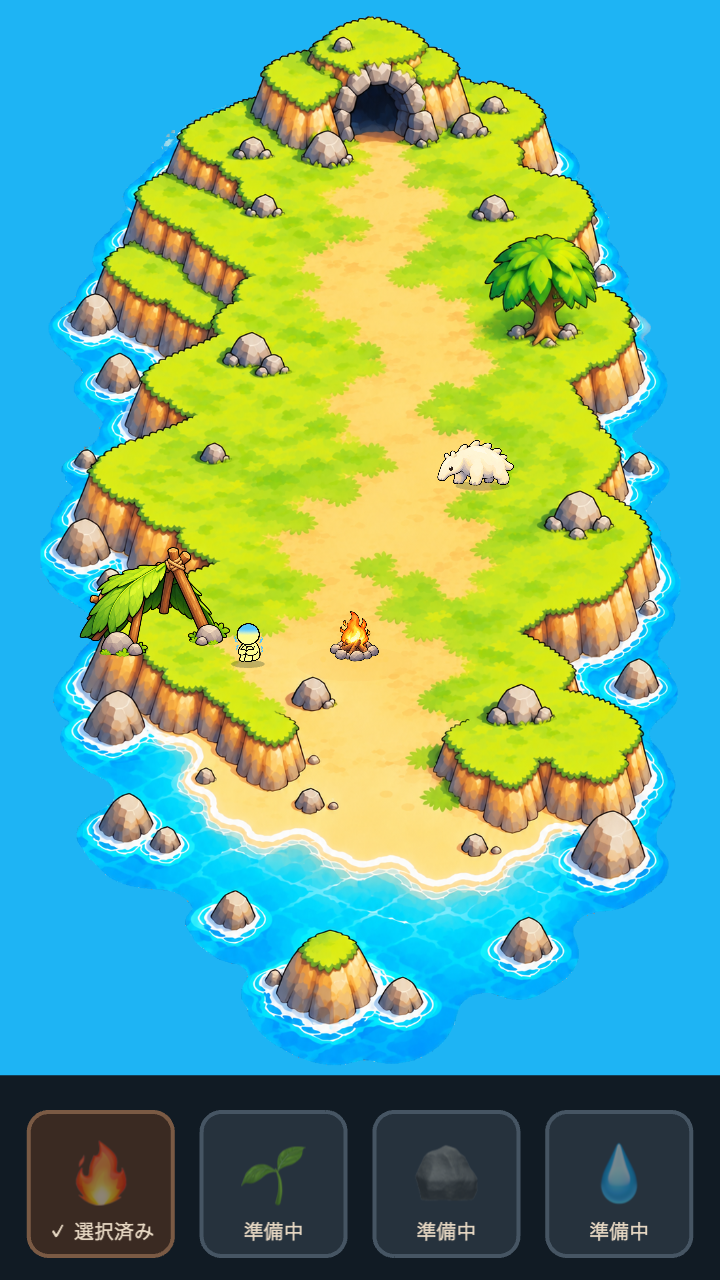
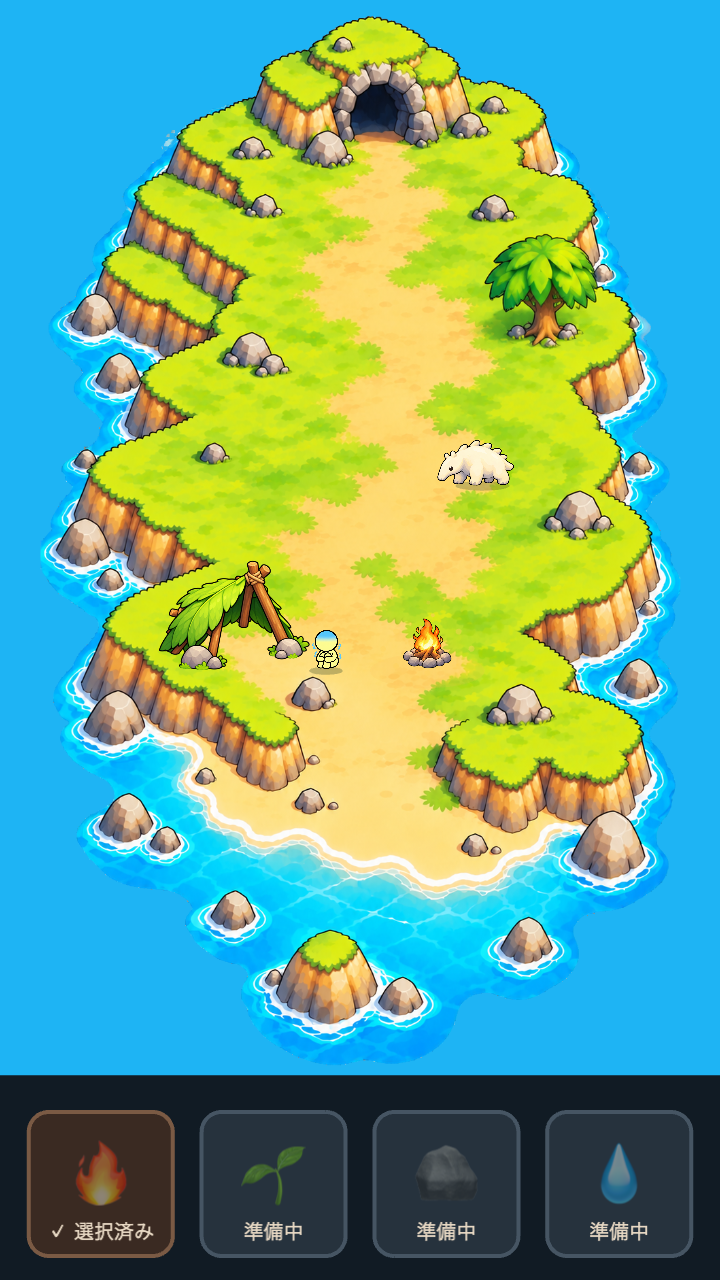
fix: keep living group on island

Changed region(s): [[0.0917, 0.4062, 0.5194, 0.5312], [0.55, 0.4688, 0.6417, 0.5312]]

diff --git a/src/presentation/worldAssets.test.ts b/src/presentation/worldAssets.test.ts
@@ -94,7 +94,7 @@ describe('world asset metadata', () => {
       groundAnchor: { x: 212, y: 296 },
       baseScale: 0.37,
       placementSpace: 'island',
-      placement: { x: 165, y: 940 },
+      placement: { x: 282, y: 960 },
       flipX: true,
     });
     expect(WORLD_ASSETS.animal).toMatchObject({
@@ -105,7 +105,7 @@ describe('world asset metadata', () => {
     expect(WORLD_ASSETS.fire).toMatchObject({
       groundAnchor: { x: 128, y: 246 },
       baseScale: 0.22,
-      placement: { x: 462, y: 950 },
+      placement: { x: 569, y: 960 },
     });
   });
 
@@ -254,6 +254,73 @@ function shelterPixelsInside(box: Box): boolean {
   return false;
 }
 
+// --- Island support: what ground lies under each opaque shelter pixel. ---
+// Classified from the island PNG itself: grass (including its dark outline) and
+// sand are supported ground; water, the transparent exterior and cliff faces are not.
+function groundAt(png: PngImage, x: number, y: number): 'grass' | 'sand' | 'none' {
+  if (x < 0 || y < 0 || x >= png.width || y >= png.height) return 'none';
+  const i = (y * png.width + x) * 4;
+  const [r, g, b, a] = [png.pixels[i], png.pixels[i + 1], png.pixels[i + 2], png.pixels[i + 3]];
+  if (a < 128) return 'none';
+  if (g >= r - 5 && g > b + 25) return 'grass';
+  if (r > 215 && g > 175 && b < 175 && r - b > 55) return 'sand';
+  return 'none';
+}
+
+const SUPPORT_MARGIN = 3; // island px of supported ground required around each pixel
+
+interface ShelterSupport {
+  readonly unsupported: number;
+  // Island px x of the leftmost opaque pixel among the lowest rows (the left
+  // plant/rock cluster) and the ground under it.
+  readonly leftContactGround: 'grass' | 'sand' | 'none';
+}
+
+// Maps every opaque, mirrored shelter pixel onto the island PNG for a shelter
+// whose ground anchor sits at island pixel (gx, gy).
+function shelterSupport(gx: number, gy: number): ShelterSupport {
+  const shelter = load(WORLD_ASSETS.shelter).png;
+  const island = load(WORLD_ASSETS.island).png;
+  const asset = WORLD_ASSETS.shelter;
+  const k = asset.baseScale / WORLD_ASSETS.island.baseScale; // island px per shelter px
+  const origin = groundOrigin(asset);
+  let unsupported = 0;
+  let leftmost = { ix: Infinity, iy: 0 };
+  for (let py = 0; py < shelter.height; py += 1) {
+    for (let px = 0; px < shelter.width; px += 1) {
+      if (alphaAt(shelter, px, py) < 128) continue;
+      const mirrored = shelter.width - 1 - px;
+      const ix = Math.round(gx + (mirrored - origin.x * shelter.width) * k);
+      const iy = Math.round(gy + (py - origin.y * shelter.height) * k);
+      const supported = [
+        [0, 0],
+        [SUPPORT_MARGIN, 0],
+        [-SUPPORT_MARGIN, 0],
+        [0, SUPPORT_MARGIN],
+        [0, -SUPPORT_MARGIN],
+      ].every(([dx, dy]) => groundAt(island, ix + dx, iy + dy) !== 'none');
+      if (!supported) unsupported += 1;
+      if (py >= shelter.height - 40 && ix < leftmost.ix) leftmost = { ix, iy };
+    }
+  }
+  return { unsupported, leftContactGround: groundAt(island, leftmost.ix, leftmost.iy) };
+}
+
+// Opaque right edge of the mirrored shelter on the design canvas.
+const SHELTER_OPAQUE_RIGHT = (() => {
+  const shelter = load(WORLD_ASSETS.shelter).png;
+  const asset = WORLD_ASSETS.shelter;
+  const origin = groundOrigin(asset);
+  let rightmost = -Infinity;
+  for (let py = 0; py < shelter.height; py += 1) {
+    for (let px = 0; px < shelter.width; px += 1) {
+      if (alphaAt(shelter, px, py) < 128) continue;
+      rightmost = Math.max(rightmost, shelter.width - 1 - px);
+    }
+  }
+  return LAYOUT.shelter.x + (rightmost - origin.x * shelter.width) * asset.baseScale;
+})();
+
 const SHELTER = footprint(WORLD_ASSETS.shelter, LAYOUT.shelter);
 const FIRE = footprint(WORLD_ASSETS.fire, LAYOUT.fire);
 const ANIMAL = footprint(WORLD_ASSETS.animal, LAYOUT.animal);
@@ -299,6 +366,26 @@ describe('world layout', () => {
     }
   });
 
+  it('supports every opaque shelter pixel on island ground, none over water, exterior or cliff', () => {
+    const { placement } = WORLD_ASSETS.shelter;
+    const support = shelterSupport(placement.x, placement.y);
+    expect(support.unsupported).toBe(0);
+    // The left plant/rock cluster stands on the lower-left grass terrace itself.
+    expect(support.leftContactGround).toBe('grass');
+  });
+
+  it('rejects the earlier protruding shelter placements with the same check', () => {
+    // (165, 940) and (190, 890) hung over the cliff / water; (200, 930) too.
+    for (const [x, y] of [
+      [165, 940],
+      [190, 890],
+      [175, 940],
+      [200, 930],
+    ]) {
+      expect(shelterSupport(x, y).unsupported).toBeGreaterThan(300);
+    }
+  });
+
   it('keeps the human walk from the shelter to the fire unobstructed', () => {
     for (const box of pathBoxes(LAYOUT.humanStart, LAYOUT.humanWarm)) {
       expect(shelterPixelsInside(box)).toBe(false);
@@ -322,10 +409,11 @@ describe('world layout', () => {
     expect(LAYOUT.humanWarm.x).toBeLessThan(LAYOUT.fire.x);
     expect(SHELTER.right).toBeLessThan(FIRE.left);
     expect(overlaps(SHELTER, FIRE)).toBe(false);
-    // Fire sits at island x 450-470, in front of the human group rather than far right.
-    const islandX = (LAYOUT.fire.x - LAYOUT.island.x) / WORLD_ASSETS.island.baseScale + WORLD_ASSETS.island.groundAnchor.x;
-    expect(islandX).toBeGreaterThanOrEqual(450);
-    expect(islandX).toBeLessThanOrEqual(470);
+    // Tight grouping: the shelter's opaque art ends just before the human, and the
+    // fire stands a short distance (about 50 design px) right of the finished human.
+    expect(LAYOUT.fire.x - LAYOUT.humanWarm.x).toBeGreaterThan(40);
+    expect(LAYOUT.fire.x - LAYOUT.humanWarm.x).toBeLessThan(70);
+    expect(LAYOUT.humanStart.x - SHELTER_OPAQUE_RIGHT).toBeLessThan(30);
   });
 
   it('leaves a visible walk that completes inside the approach Wave', () => {
@@ -353,7 +441,8 @@ describe('world layout', () => {
       expect(space.bottom).toBeLessThan(LAYOUT.ui.panelTop);
       expect(space.right - space.left).toBeGreaterThan(80);
       expect(space.bottom - space.top).toBeGreaterThan(40);
-      for (const box of [SHELTER, FIRE, ANIMAL_REACH, ...walk]) {
+      expect(shelterPixelsInside(space)).toBe(false);
+      for (const box of [FIRE, ANIMAL_REACH, ...walk]) {
         expect(overlaps(space, box)).toBe(false);
       }
     }

diff --git a/src/presentation/layout.ts b/src/presentation/layout.ts
@@ -51,16 +51,16 @@ export const LAYOUT = {
   animal: assetGround(WORLD_ASSETS.animal),
   // Front: shelter, human, fire on the sand, with the open path kept free.
   shelter: assetGround(WORLD_ASSETS.shelter),
-  humanStart: onIsland(305, 950),
-  humanWarm: onIsland(392, 950),
+  humanStart: onIsland(420, 960),
+  humanWarm: onIsland(495, 960),
   // Dev-only review loop (?humanWalkPreview): a rectangle that walks right,
   // down, left, then up so each approved view can be checked on a phone screen.
-  humanWalkPreview: [onIsland(320, 760), onIsland(520, 760), onIsland(520, 850), onIsland(320, 850)] as readonly Point[],
+  humanWalkPreview: [onIsland(390, 740), onIsland(540, 740), onIsland(540, 850), onIsland(390, 850)] as readonly Point[],
   fire: assetGround(WORLD_ASSETS.fire),
   // Empty ground on purpose, so later growth has room to appear: the central
   // sand path and the beach in front of it.
   growthSpaces: [
-    { id: 'central', ...islandRect(350, 700, 520, 860) },
+    { id: 'central', ...islandRect(400, 700, 540, 860) },
     { id: 'front', ...islandRect(260, 1030, 460, 1100) },
   ],
   // Bottom: four-icon selection UI.

diff --git a/src/presentation/worldAssets.ts b/src/presentation/worldAssets.ts
@@ -59,7 +59,7 @@ export const WORLD_ASSETS = {
     groundAnchor: { x: 212, y: 296 },
     baseScale: 0.37,
     placementSpace: 'island',
-    placement: { x: 165, y: 940 },
+    placement: { x: 282, y: 960 },
     flipX: true,
   },
   // The one white fantasy creature, grazing on the right-hand grass terrace.
@@ -83,7 +83,7 @@ export const WORLD_ASSETS = {
     groundAnchor: { x: 128, y: 246 },
     baseScale: 0.22,
     placementSpace: 'island',
-    placement: { x: 462, y: 950 },
+    placement: { x: 569, y: 960 },
   },
 } as const satisfies Record<string, WorldAsset>;
 
